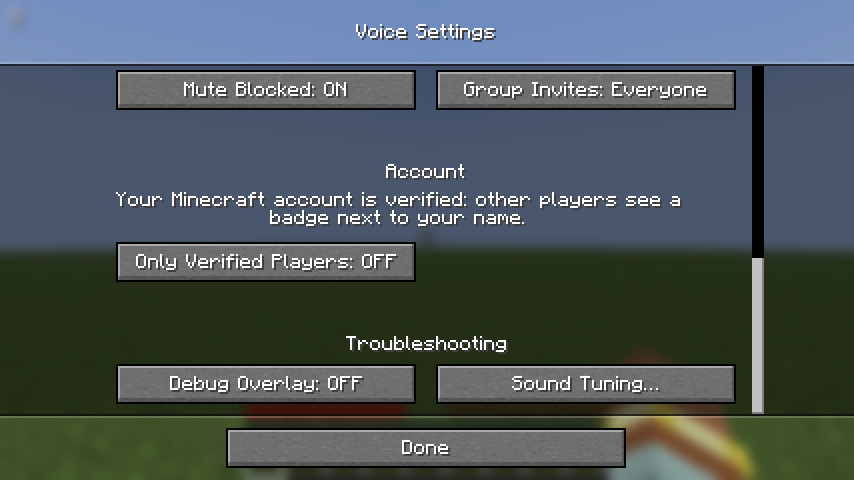
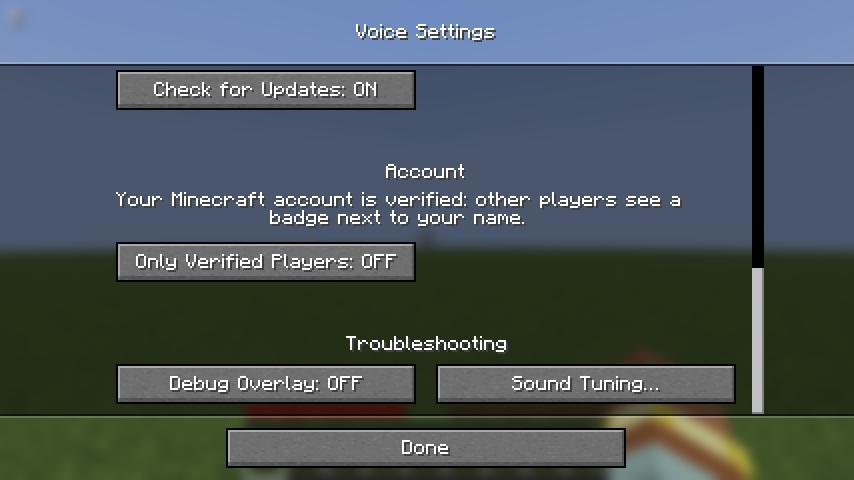
Tell players on the title screen when a newer Yak VC is out
Once per game start, in the background, the mod asks GitHub for the
releases list and links a newer release from the title screen's corner,
prereleases only for a prerelease. Check for Updates (check_for_updates,
default on) turns it off; dev builds never check.

Changed region(s): [[0.4871, 0.125, 0.8829, 0.25], [0.1827, 0.1562, 0.4567, 0.2188], [0.8829, 0.5312, 0.9133, 0.5625]]

diff --git a/mod/src/main/java/io/github/desocketed/yakvc/UpdateCheck.java b/mod/src/main/java/io/github/desocketed/yakvc/UpdateCheck.java
@@ -1,0 +1,127 @@
+package io.github.desocketed.yakvc;
+
+import com.google.gson.JsonElement;
+import com.google.gson.JsonObject;
+import com.google.gson.JsonParser;
+import java.net.URI;
+import java.net.http.HttpClient;
+import java.net.http.HttpRequest;
+import java.net.http.HttpResponse;
+import java.time.Duration;
+import java.util.ArrayList;
+import java.util.List;
+import java.util.concurrent.CompletableFuture;
+import org.jspecify.annotations.Nullable;
+
+/**
+ * Asks GitHub once per game whether a newer Yak VC is out. The request is a plain GET of the public releases list;
+ * nothing about the player is sent, and any failure only means no notice.
+ */
+public final class UpdateCheck {
+	private static final URI RELEASES = URI.create("https://api.github.com/repos/desocketed/yakvc/releases?per_page=10");
+	private static final Duration TIMEOUT = Duration.ofSeconds(10);
+
+	/** A release newer than the running one. */
+	public record Release(String version, URI page) {}
+
+	private UpdateCheck() {}
+
+	/**
+	 * Fetches the releases in the background and completes with a newer release than {@code running}, or null if
+	 * there is none or anything went wrong (logged once). Never blocks the caller.
+	 */
+	public static CompletableFuture<@Nullable Release> start(String running) {
+		HttpRequest request = HttpRequest.newBuilder(RELEASES)
+				.timeout(TIMEOUT)
+				.header("User-Agent", "yakvc/" + running)
+				.header("Accept", "application/vnd.github+json")
+				.build();
+		return HttpClient.newBuilder().connectTimeout(TIMEOUT).build()
+				.sendAsync(request, HttpResponse.BodyHandlers.ofString())
+				.thenApply(response -> {
+					if (response.statusCode() != 200) {
+						throw new IllegalStateException("GitHub answered " + response.statusCode());
+					}
+					return newerRelease(response.body(), running);
+				})
+				.exceptionally(e -> {
+					YakVcClient.LOGGER.info("Could not check for a Yak VC update: {}", e.toString());
+					return null;
+				});
+	}
+
+	/**
+	 * The newest release in GitHub's releases JSON that is newer than {@code running}, or null. Drafts never count;
+	 * prereleases only when {@code running} is one itself, so someone on a stable release isn't pushed to an alpha.
+	 */
+	static @Nullable Release newerRelease(String json, String running) {
+		List<Object> current = parse(running);
+		if (current == null) return null;
+		boolean wantPrereleases = current.size() > 3;
+		Release best = null;
+		List<Object> bestVersion = current;
+		for (JsonElement element : JsonParser.parseString(json).getAsJsonArray()) {
+			JsonObject release = element.getAsJsonObject();
+			if (release.get("draft").getAsBoolean()) continue;
+			if (release.get("prerelease").getAsBoolean() && !wantPrereleases) continue;
+			String tag = release.get("tag_name").getAsString();
+			List<Object> version = parse(tag);
+			if (version == null || compare(version, bestVersion) <= 0) continue;
+			best = new Release(tag.startsWith("v") ? tag.substring(1) : tag,
+					URI.create(release.get("html_url").getAsString()));
+			bestVersion = version;
+		}
+		return best;
+	}
+
+	/**
+	 * A semantic version as its parts: major, minor and patch as Integers, then the prerelease identifiers (Integers
+	 * where numeric, so alpha.10 sorts after alpha.9). Null if it isn't one, such as a dev build's version.
+	 */
+	static @Nullable List<Object> parse(String text) {
+		String version = text.startsWith("v") ? text.substring(1) : text;
+		int plus = version.indexOf('+');
+		if (plus >= 0) version = version.substring(0, plus); // Build metadata doesn't order versions.
+		int dash = version.indexOf('-');
+		String core = dash >= 0 ? version.substring(0, dash) : version;
+		String[] numbers = core.split("\\.", -1);
+		if (numbers.length != 3) return null;
+		List<Object> parts = new ArrayList<>();
+		for (String number : numbers) {
+			if (!number.matches("\\d+")) return null;
+			parts.add(Integer.parseInt(number));
+		}
+		if (dash >= 0) {
+			for (String identifier : version.substring(dash + 1).split("\\.", -1)) {
+				if (identifier.isEmpty()) return null;
+				parts.add(identifier.matches("\\d+") ? Integer.parseInt(identifier) : identifier);
+			}
+		}
+		return parts;
+	}
+
+	/** Orders two parsed versions as semantic versioning does. */
+	static int compare(List<Object> a, List<Object> b) {
+		for (int i = 0; i < 3; i++) {
+			int order = Integer.compare((Integer) a.get(i), (Integer) b.get(i));
+			if (order != 0) return order;
+		}
+		// A release sorts after its own prereleases.
+		boolean aRelease = a.size() == 3;
+		boolean bRelease = b.size() == 3;
+		if (aRelease || bRelease) return Boolean.compare(aRelease, bRelease);
+		for (int i = 3; i < Math.min(a.size(), b.size()); i++) {
+			int order = compareIdentifier(a.get(i), b.get(i));
+			if (order != 0) return order;
+		}
+		return Integer.compare(a.size(), b.size());
+	}
+
+	/** Numbers sort numerically and before words; words sort as text. */
+	private static int compareIdentifier(Object a, Object b) {
+		if (a instanceof Integer x && b instanceof Integer y) return Integer.compare(x, y);
+		if (a instanceof Integer) return -1;
+		if (b instanceof Integer) return 1;
+		return ((String) a).compareTo((String) b);
+	}
+}

diff --git a/mod/src/test/java/io/github/desocketed/yakvc/UpdateCheckTest.java b/mod/src/test/java/io/github/desocketed/yakvc/UpdateCheckTest.java
@@ -1,0 +1,63 @@
+package io.github.desocketed.yakvc;
+
+import static org.junit.jupiter.api.Assertions.assertEquals;
+import static org.junit.jupiter.api.Assertions.assertNull;
+import static org.junit.jupiter.api.Assertions.assertTrue;
+
+import java.net.URI;
+import org.junit.jupiter.api.Test;
+
+class UpdateCheckTest {
+	private static int compare(String a, String b) {
+		return UpdateCheck.compare(UpdateCheck.parse(a), UpdateCheck.parse(b));
+	}
+
+	@Test
+	void ordersVersionsAsSemverDoes() {
+		assertTrue(compare("0.1.0-alpha.10", "0.1.0-alpha.9") > 0);
+		assertTrue(compare("0.1.0", "0.1.0-alpha.9") > 0);
+		assertTrue(compare("0.1.0-beta.1", "0.1.0-alpha.9") > 0);
+		assertTrue(compare("0.1.0-alpha.1", "0.1.0-alpha") > 0);
+		assertTrue(compare("0.1.0-alpha.1", "0.1.0-alpha.x") < 0);
+		assertTrue(compare("0.2.0-alpha.1", "0.1.9") > 0);
+		assertTrue(compare("0.10.0", "0.9.0") > 0);
+		assertEquals(0, compare("v1.2.3+build.5", "1.2.3"));
+	}
+
+	@Test
+	void rejectsWhatIsNotAVersion() {
+		assertNull(UpdateCheck.parse("${version}"));
+		assertNull(UpdateCheck.parse("1.2"));
+		assertNull(UpdateCheck.parse("1.2.x"));
+		assertNull(UpdateCheck.parse("1.2.3-"));
+		assertNull(UpdateCheck.parse("1.2.3-alpha..1"));
+	}
+
+	private static final String RELEASES = """
+			[
+			  {"tag_name": "v0.2.0", "draft": true, "prerelease": false, "html_url": "https://example.com/v0.2.0"},
+			  {"tag_name": "v0.1.0-alpha.10", "draft": false, "prerelease": true, "html_url": "https://example.com/a10"},
+			  {"tag_name": "v0.1.0-alpha.9", "draft": false, "prerelease": true, "html_url": "https://example.com/a9"},
+			  {"tag_name": "v0.0.9", "draft": false, "prerelease": false, "html_url": "https://example.com/v0.0.9"}
+			]
+			""";
+
+	@Test
+	void picksTheNewestPrereleaseForAPrerelease() {
+		assertEquals(new UpdateCheck.Release("0.1.0-alpha.10", URI.create("https://example.com/a10")),
+				UpdateCheck.newerRelease(RELEASES, "0.1.0-alpha.3"));
+	}
+
+	@Test
+	void skipsPrereleasesForARelease() {
+		assertNull(UpdateCheck.newerRelease(RELEASES, "0.0.9"));
+		assertEquals("0.0.9", UpdateCheck.newerRelease(RELEASES, "0.0.8").version());
+	}
+
+	@Test
+	void findsNothingWhenUpToDateOrUnparsable() {
+		assertNull(UpdateCheck.newerRelease(RELEASES, "0.1.0-alpha.10"));
+		assertNull(UpdateCheck.newerRelease(RELEASES, "0.1.0"));
+		assertNull(UpdateCheck.newerRelease(RELEASES, "dev"));
+	}
+}

diff --git a/mod/src/main/java/io/github/desocketed/yakvc/ui/VoiceSettingsScreen.java b/mod/src/main/java/io/github/desocketed/yakvc/ui/VoiceSettingsScreen.java
@@ -48,6 +48,7 @@ public final class VoiceSettingsScreen extends OptionsSubScreen {
 	private final OptionInstance<Boolean> muteBlockedPlayers;
 	private final OptionInstance<Boolean> verifiedOnly;
 	private final OptionInstance<String> invites;
+	private final OptionInstance<Boolean> checkForUpdates;
 	private final OptionInstance<Boolean> debugOverlay;
 	/** The account line, which follows the rendezvous state while the screen is open. */
 	private @Nullable MultiLineTextWidget accountText;
@@ -100,6 +101,9 @@ public final class VoiceSettingsScreen extends OptionsSubScreen {
 		verifiedOnly = OptionInstance.createBoolean("yakvc.settings.verified_only",
 				OptionInstance.cachedConstantTooltip(Component.translatable("yakvc.settings.verified_only.tooltip")),
 				initial.verifiedOnly());
+		checkForUpdates = OptionInstance.createBoolean("yakvc.settings.check_for_updates",
+				OptionInstance.cachedConstantTooltip(Component.translatable("yakvc.settings.check_for_updates.tooltip")),
+				initial.checkForUpdates());
 		// Takes effect at once and isn't saved, unlike the settings above.
 		debugOverlay = OptionInstance.createBoolean("yakvc.settings.debug_overlay",
 				OptionInstance.cachedConstantTooltip(Component.translatable("yakvc.settings.debug_overlay.tooltip")),
@@ -195,6 +199,7 @@ public final class VoiceSettingsScreen extends OptionsSubScreen {
 				.setMaxWidth(310).setCentered(true));
 		list.addSmall(relayOnly, respectChatRestrictions);
 		list.addSmall(muteBlockedPlayers, invites);
+		list.addSmall(checkForUpdates);
 		list.addHeader(Component.translatable("yakvc.settings.account"));
 		shownAccountState = accountState();
 		accountText = new MultiLineTextWidget(shownAccountState, font).setMaxWidth(310).setCentered(true);
@@ -277,6 +282,9 @@ public final class VoiceSettingsScreen extends OptionsSubScreen {
 		}
 		if (verifiedOnly.get() != initial.verifiedOnly()) {
 			changed = changed.with("", "verified_only", String.valueOf(verifiedOnly.get()));
+		}
+		if (checkForUpdates.get() != initial.checkForUpdates()) {
+			changed = changed.with("", "check_for_updates", String.valueOf(checkForUpdates.get()));
 		}
 		changed = withActivationAndInvites(changed, activation, invites);
 		// In kbps: a hand-edited bitrate that isn't a whole kbps would otherwise be rewritten on every close.

diff --git a/mod/src/main/java/io/github/desocketed/yakvc/ui/UpdateNotice.java b/mod/src/main/java/io/github/desocketed/yakvc/ui/UpdateNotice.java
@@ -1,0 +1,53 @@
+package io.github.desocketed.yakvc.ui;
+
+import io.github.desocketed.yakvc.UpdateCheck;
+import java.util.List;
+import net.fabricmc.fabric.api.client.screen.v1.ScreenEvents;
+import net.fabricmc.fabric.api.client.screen.v1.Screens;
+import net.minecraft.ChatFormatting;
+import net.minecraft.client.Minecraft;
+import net.minecraft.client.gui.components.AbstractWidget;
+import net.minecraft.client.gui.components.PlainTextButton;
+import net.minecraft.client.gui.screens.ConfirmLinkScreen;
+import net.minecraft.client.gui.screens.Screen;
+import net.minecraft.client.gui.screens.TitleScreen;
+import net.minecraft.network.chat.Component;
+import org.jspecify.annotations.Nullable;
+
+/**
+ * A line of text in the title screen's top left corner naming a newer Yak VC, which opens its release page (after the
+ * game's usual link warning) when clicked. Only the title screen: in game it would be in the way.
+ */
+public final class UpdateNotice {
+	private static final int MARGIN = 4;
+
+	private static UpdateCheck.@Nullable Release newer;
+
+	private UpdateNotice() {}
+
+	public static void register() {
+		ScreenEvents.AFTER_INIT.register((minecraft, screen, width, height) -> addTo(screen));
+	}
+
+	/** Shows {@code release} from now on. Must run on the client thread. */
+	public static void show(UpdateCheck.Release release) {
+		newer = release;
+		// The check usually finishes while the title screen is already up, after its last init.
+		Screen screen = Minecraft.getInstance().gui.screen();
+		if (screen != null) addTo(screen);
+	}
+
+	private static void addTo(Screen screen) {
+		UpdateCheck.Release release = newer;
+		if (release == null || !(screen instanceof TitleScreen)) return;
+		List<AbstractWidget> widgets = Screens.getWidgets(screen);
+		Component text = Component.translatable("yakvc.update.available", release.version())
+				.withStyle(ChatFormatting.UNDERLINE);
+		for (AbstractWidget widget : widgets) {
+			if (widget.getMessage().equals(text)) return;
+		}
+		var font = Minecraft.getInstance().font;
+		widgets.add(new PlainTextButton(MARGIN, MARGIN, font.width(text), font.lineHeight, text,
+				button -> ConfirmLinkScreen.confirmLinkNow(screen, release.page()), font));
+	}
+}

diff --git a/mod/src/main/java/io/github/desocketed/yakvc/YakVcClient.java b/mod/src/main/java/io/github/desocketed/yakvc/YakVcClient.java
@@ -10,6 +10,7 @@ import io.github.desocketed.yakvc.ui.DebugOverlay;
 import io.github.desocketed.yakvc.ui.PauseMenuButton;
 import io.github.desocketed.yakvc.ui.SoundOptionsButton;
 import io.github.desocketed.yakvc.ui.TalkingIndicator;
+import io.github.desocketed.yakvc.ui.UpdateNotice;
 import io.github.desocketed.yakvc.ui.VoiceHud;
 import io.github.desocketed.yakvc.ui.VoiceToasts;
 import java.lang.foreign.MemorySegment;
@@ -52,6 +53,7 @@ public final class YakVcClient implements ClientModInitializer {
 		SoundOptionsButton.register();
 		PauseMenuButton.register();
 		Path configDir = configDir();
+		checkForUpdate(configDir);
 		NativeBridge bridge;
 		try {
 			bridge = new NativeBridge(NativeLoader.load(configDir));
@@ -123,6 +125,26 @@ public final class YakVcClient implements ClientModInitializer {
 		HudElementRegistry.addLast(Identifier.fromNamespaceAndPath("yakvc", "voice"), new VoiceHud(feeder));
 		HudElementRegistry.addLast(Identifier.fromNamespaceAndPath("yakvc", "debug"), new DebugOverlay(feeder));
 		LevelRenderEvents.COLLECT_SUBMITS.register(new TalkingIndicator(feeder)::submit);
+	}
+
+	/**
+	 * Starts the update check unless it is turned off. Before the engine, so a player whose voice fails to start
+	 * still hears about the release that may fix it.
+	 */
+	private static void checkForUpdate(Path configDir) {
+		FabricLoader loader = FabricLoader.getInstance();
+		// A dev build's version says nothing about which release it is.
+		if (loader.isDevelopmentEnvironment()) return;
+		try {
+			if (!ClientConfig.load(configDir).checkForUpdates()) return;
+		} catch (Exception e) {
+			return; // The engine start below reports the broken config.
+		}
+		String running = loader.getModContainer("yakvc").orElseThrow().getMetadata().getVersion().getFriendlyString();
+		UpdateNotice.register();
+		UpdateCheck.start(running).thenAccept(release -> {
+			if (release != null) Minecraft.getInstance().execute(() -> UpdateNotice.show(release));
+		});
 	}
 
 	/** Logs why voice is off for this game and tells the player once the title screen is up. */

diff --git a/mod/src/main/java/io/github/desocketed/yakvc/config/ClientConfig.java b/mod/src/main/java/io/github/desocketed/yakvc/config/ClientConfig.java
@@ -55,6 +55,11 @@ public record ClientConfig(String toml) {
 		return bool(value("", "setup_done"), false);
 	}
 
+	/** Whether to ask GitHub for a newer Yak VC at startup. Only the mod reads it. */
+	public boolean checkForUpdates() {
+		return bool(value("", "check_for_updates"), true);
+	}
+
 	/** Blocks; the engine's default when unset. */
 	public double voiceRange() {
 		return number(value("", "voice_range"), 48);
@@ -256,6 +261,10 @@ public record ClientConfig(String toml) {
 
 			# The voice menu shows a short setup card until it is dismissed. A modpack can ship this as true.
 			setup_done = false
+
+			# At startup, ask GitHub whether a newer Yak VC is out and say so on the title screen. Nothing about you
+			# is sent beyond the request itself.
+			check_for_updates = true
 
 			# Development against a local `yakvc-server` with `insecure_dev_auth = true`: uncomment these two lines
 			# and the [rendezvous] table below, filled in with the IDs the server prints at startup.

diff --git a/docs/USER_GUIDE.md b/docs/USER_GUIDE.md
@@ -153,6 +153,7 @@ Open the settings from **Options → Music & Sounds → Voice Chat…**, at the 
 - **Obey Chat Limits**: turns voice off while your Microsoft account or launcher disables chat. On by default.
 - **Mute Blocked**: players you block in Social Interactions can't hear you, and you don't hear them. On by default.
 - **Group Invites**: who may invite you to a [group](#groups): *Everyone* (the default) or *Nobody*. Setting `invites = "friends"` in the [config file](#the-config-file) allows only the players in `friends_only`, which is edited there too. Invites from anyone else are ignored.
+- **Check for Updates**: once at startup, asks GitHub whether a newer Yak VC is out, and if so names it in the title screen's top left corner; click it to open the release page. On by default; it takes effect after you restart the game.
 
 Under **Account** the settings say whether your Minecraft account is verified (see [Installing](#installing)).
 
@@ -181,6 +182,7 @@ Voices follow the world: walls and closed doors muffle them, a voice behind a wa
 - **The Yak VC server** learns which Yak VC players are on a server together and their IP addresses, but never hears what you say, and it keeps no record of who played with whom. Your game sends it the rest of the player list only as scrambled codes, but player IDs are public, so it could work out who is on your list.
 - **Chat restrictions.** If your Microsoft account (for example a child account) or your launcher turns chat off, Yak VC turns voice off too. **Obey Chat Limits** controls this.
 - **Blocked players.** Anyone you block in Social Interactions is muted both ways. **Mute Blocked** controls this.
+- **Update check.** Once at startup Yak VC asks GitHub for its list of releases, so GitHub sees your IP address and that you run Yak VC; nothing else is sent. **Check for Updates** turns it off.
 - **Server owners** can ask Yak VC to stay off: put `[no-yakvc]` anywhere in the server's MOTD, and Yak VC turns itself off for everyone on that server. Nothing enforces this; the mod simply honours it.
 
 ## When something goes wrong
@@ -236,6 +238,7 @@ The keys that the settings screen shows:
 | `respect_chat_restrictions` | `true` | Obey Chat Limits |
 | `mute_blocked_players` | `true` | Mute Blocked |
 | `verified_only` | `false` | Only Verified Players |
+| `check_for_updates` | `true` | Check for Updates |
 | `invites` | `"everyone"` | Group Invites (`"everyone"`, `"friends"` or `"nobody"`) |
 | `[audio]` `activation` | `"push_to_talk"` | Activation (`"push_to_talk"` or `"voice"`) |
 | `[audio]` `bitrate` | `24000` | Bitrate, in bits per second |

diff --git a/docs/DESIGN.md b/docs/DESIGN.md
@@ -567,6 +567,7 @@ The design rule is **you only send voice to, and only play voice from, players y
 | Rendezvous abuse | Rate limits per EndpointId and IP (/64 for IPv6), caps on unregistered connections and sessions per IP and per UUID, bounded per-session outboxes, pair-set caps, dev tickets rejected by production clients (see limits). Offline sessions (`Hello` plus `Decline`) still give relay access, bounded by the per-IP and relayed-challenge limits |
 | Relay used by unrelated Iroh apps | Relay access restricted to EndpointIds with a live rendezvous session, apart from a rate-limited 30 s grace period that lets clients register |
 | Restricted (e.g. child) accounts | Voice is disabled when the Microsoft profile or launcher disables chat (`respect_chat_restrictions`, default on) |
+| Update check reveals players | Once per game start (not in dev builds), on a background thread, the mod fetches `api.github.com/repos/desocketed/yakvc/releases`: a plain GET with a `yakvc/<version>` User-Agent, so GitHub learns an IP address runs that version and nothing more. `check_for_updates` (default on, the settings' Privacy section) turns it off. A newer release (prereleases only when the running version is one) shows as a link in the title screen's corner (`UpdateCheck`, `UpdateNotice`); any failure is logged once and shows nothing. |
 | Tampered native library | Releases built only in CI and downloaded from GitHub Releases, with `SHA256SUMS`. The in-jar SHA-256 manifest only catches a corrupted or swapped extracted copy; anyone who can modify the jar can modify the manifest too. |
 | Server owner doesn't want voice | No technical control exists. The client honours an opt-out marker `[no-yakvc]` in the server MOTD and disables itself there. The MOTD arrives after join in the server-data packet, so this works for direct connects too, not just the server list. Voice waits for that packet before starting. See server opt-out below. |
 
